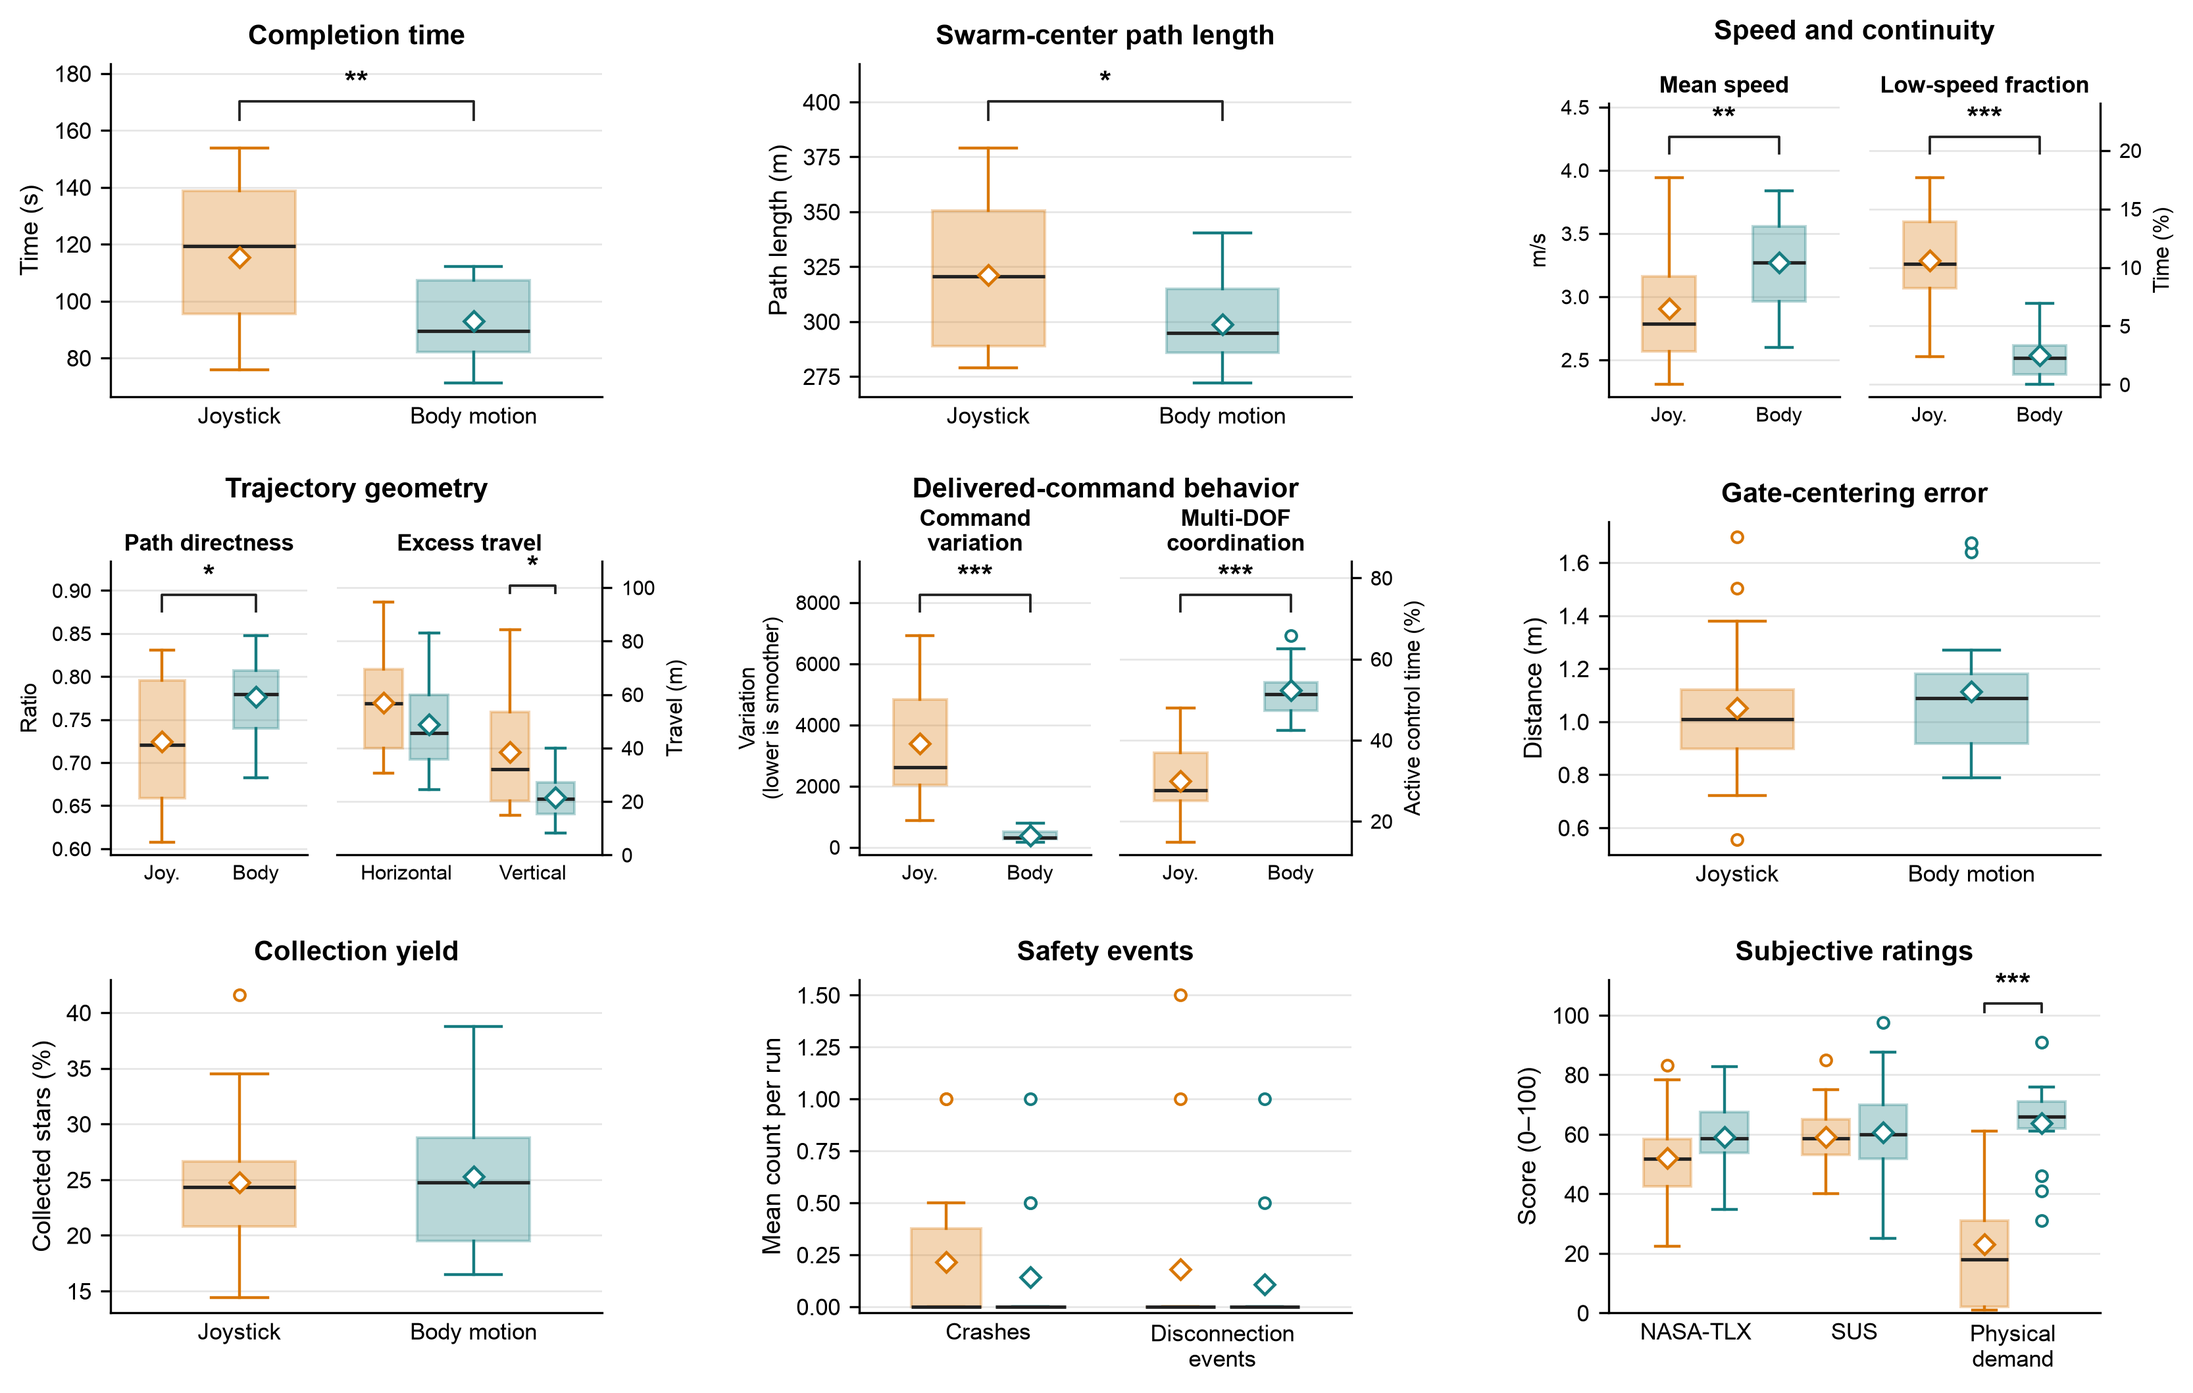
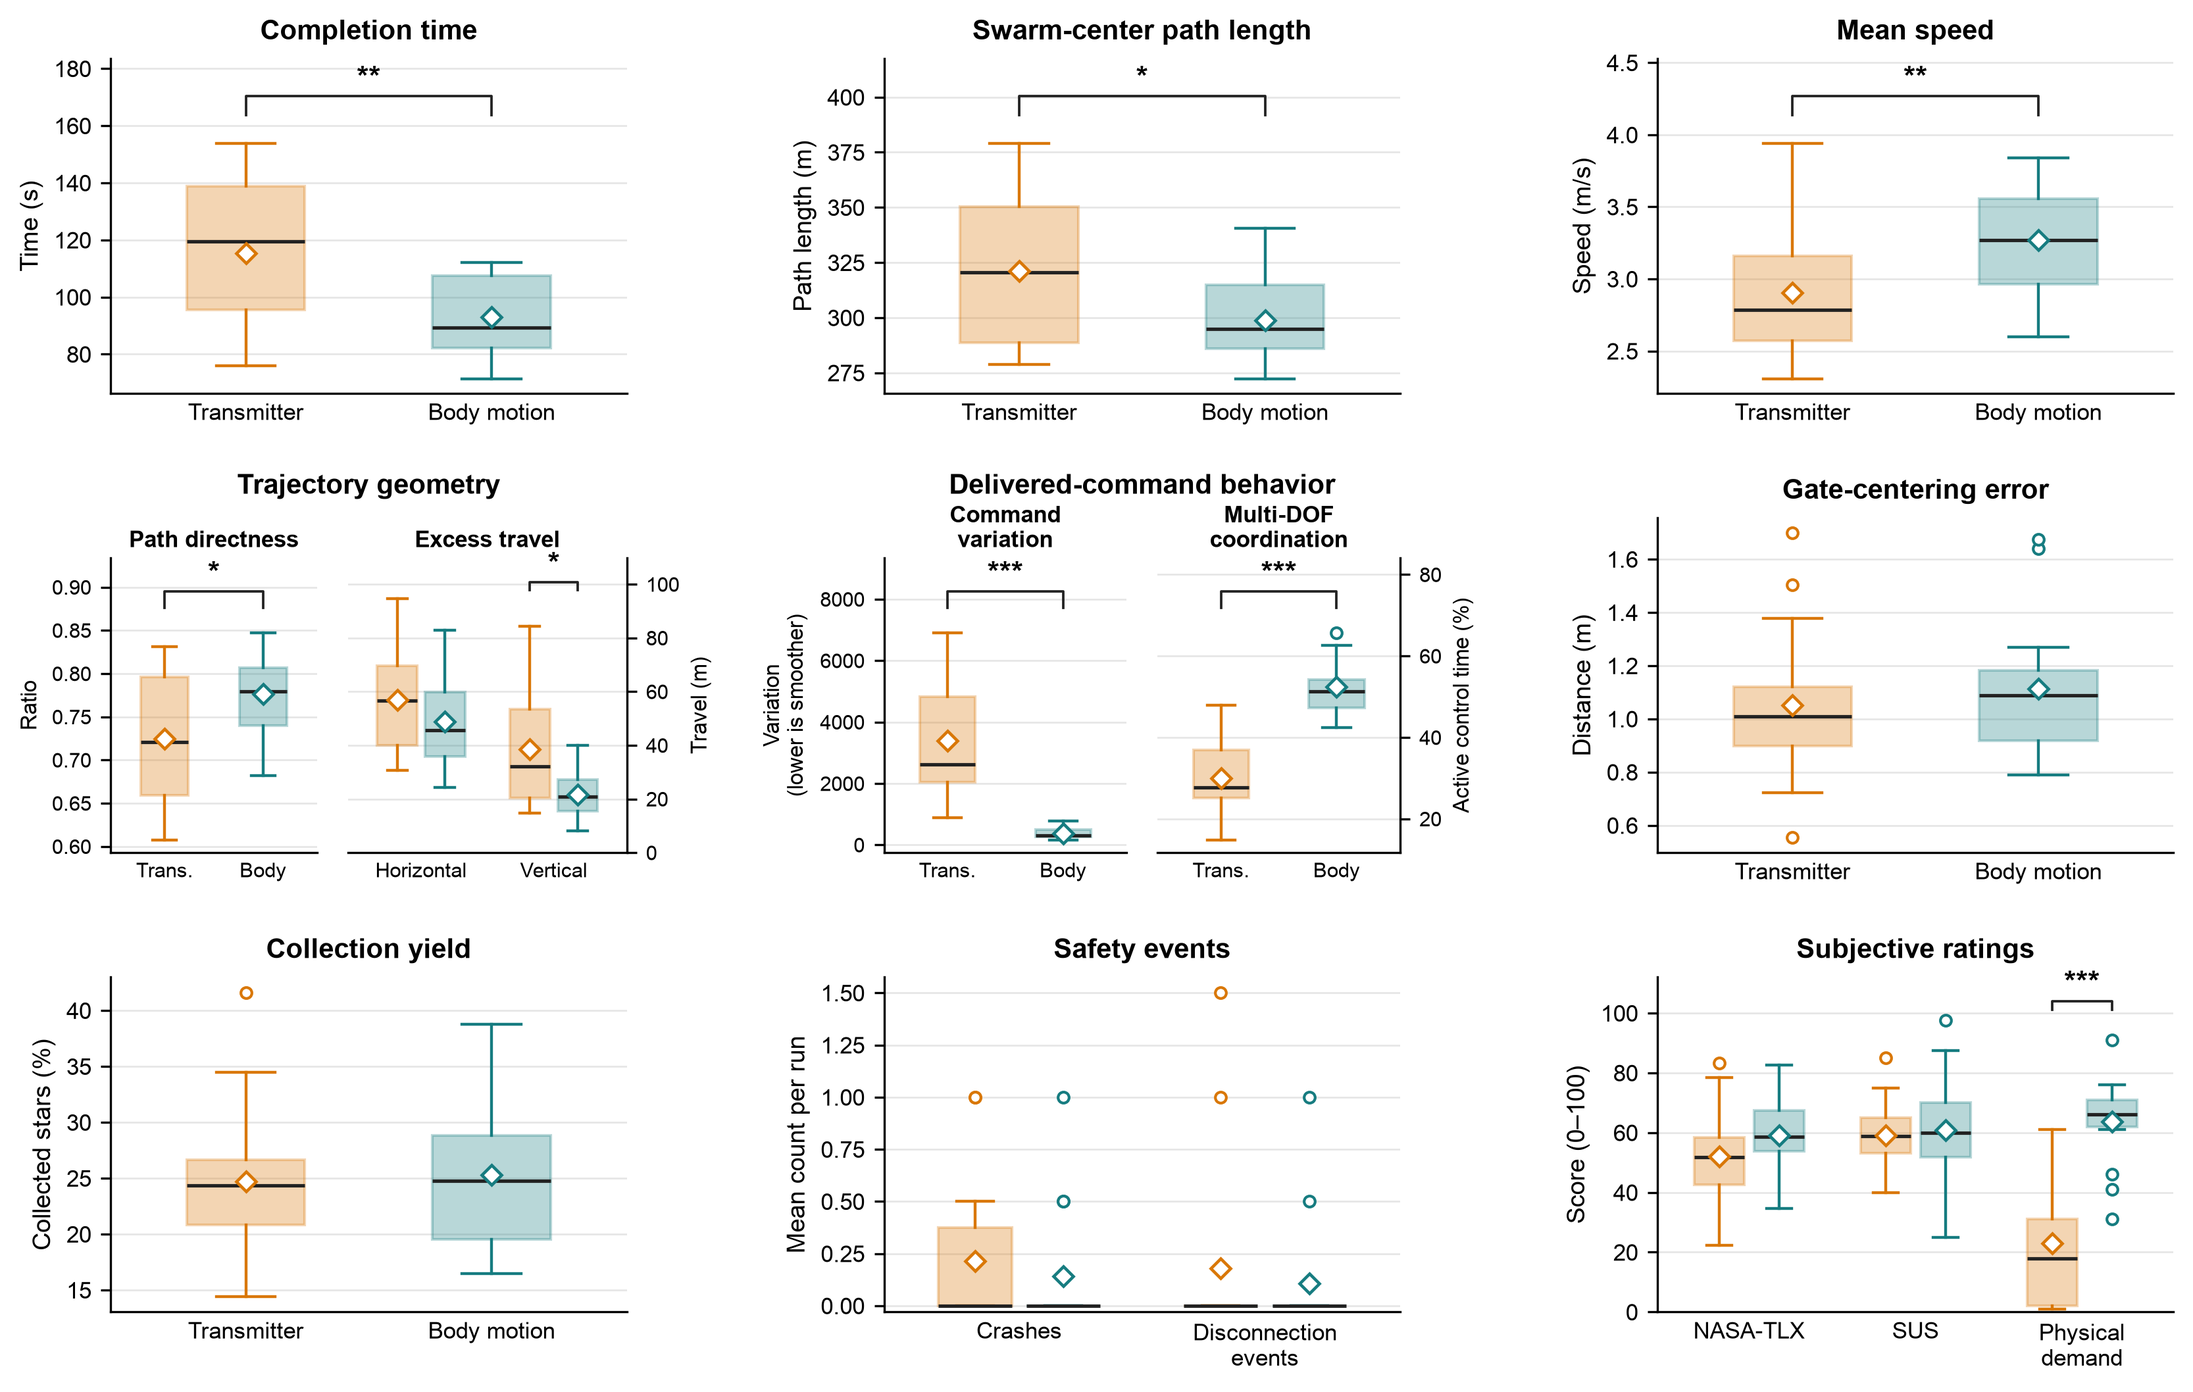
more

diff --git a/main.tex b/main.tex
@@ -48,25 +48,16 @@ Human Research Ethics Committee under Application No.\ HREC 092-2023.}%
 \pagestyle{empty}
 
 
-
 \begin{abstract}
-
 Immersive first-person-view teleoperation of aerial swarms requires concurrent
 control of collective motion, view direction, and formation size. We developed
 a participant-calibrated upper-body interface providing five-DOF control
 through torso, controller, and head motion. In a within-subject study, 14
 participants navigated a simulated 15-agent swarm through three-dimensional
-obstacle courses using the implemented body-motion interface and a conventional transmitter. the implemented body-motion interface
-reduced completion time by 19.4\% and centroid path length by 7.0\%, produced
+obstacle courses using body-motion and a conventional transmitter. The implemented body-motion interface reduced completion time by 19.4\% and centroid path length by 7.0\%, produced
 more direct trajectories, yielded 88.8\% lower delivered-command variation, and
-showed higher multi-DOF coordination. No clear
-differences were detected in gate-centering error, collection yield, crash and
-disconnection counts, overall workload, or usability, while physical demand was
-higher with the implemented body-motion interface for all participants. These results indicate an
-efficiency advantage for an upper-body interface that distributes concurrently
-varying command dimensions across separate body segments.
+showed higher multi-DOF coordination. No clear differences were detected in gate-centering error, collection yield, crash and disconnection counts, overall workload, or usability, while physical demand was higher with the implemented body-motion interface for all participants. These results indicate an efficiency advantage for an upper-body interface that distributes concurrently varying command dimensions across separate body segments.
 \end{abstract}
-
 
 % =====================================================================
 
@@ -75,10 +66,10 @@ varying command dimensions across separate body segments.
 Aerial swarms can extend sensing and coverage by coordinating many robots, but
 missions that depend on human judgment still require an effective interface
 between one operator and the collective
-\cite{kolling2016survey,hocraffer2017meta}. Rather than command individual
-agents, the operator can steer the swarm through a smaller set of collective
-commands. In three-dimensional environments, however, several commands may
-need to change concurrently. Passing through an opening can require simultaneous
+\cite{kolling2016survey,hocraffer2017meta}. Rather than commanding individual
+agents, the operator can steer the entire swarm through a smaller set of collective
+commands. In three-dimensional environments, several commands may
+need to change concurrently. For example, passing through an opening can require simultaneous
 adjustment of planar translation, altitude, formation spacing, and view
 direction. The interface must therefore support coordinated control of multiple
 continuous degrees of freedom (DOF), rather than forcing the operator to make
@@ -87,11 +78,9 @@ these adjustments sequentially.
 This control problem is affected by how the swarm is viewed. A top-down view
 (TDV) provides an external overview that makes the swarm's global state,
 including its spatial extent, connectivity, and relationship to surrounding
-obstacles, directly visible. Producing this view in an uninstrumented
-environment may nevertheless require external infrastructure, a dedicated
-viewing platform, or real-time scene reconstruction. A dedicated viewing agent
-can also introduce a single point of failure into an otherwise distributed
-system. A first-person view (FPV) can instead be streamed from a \emph{focal
+obstacles, directly visible. Producing this view requires a dedicated
+viewing platform, or real-time scene reconstruction. A dedicated viewing agent introduces a single point of failure into an otherwise distributed
+system while scene reconstruction is computationally expensive and requires many additional expensive sensors such as Lidars. A first-person view (FPV) can instead be streamed from a \emph{focal
 agent}, defined here as the swarm member whose onboard camera currently supplies
 the operator's view. The camera source can be transferred if that agent becomes
 unavailable, preserving the distributed character of the swarm
@@ -116,7 +105,7 @@ Jarvis et al.\ demonstrated that a rear-focal FPV can support one-to-many swarm
 teleoperation and compared different placements and combinations of onboard
 views \cite{ben_focaldrone}. Their interface assigned planar translation,
 vertical motion, view yaw, and formation spacing to two transmitter sticks and
-a rotary control. This established the feasibility of focal-agent FPV, but left
+a rotary control knob. This established the feasibility of focal-agent FPV, but left
 an interaction problem unresolved: whether a conventional handheld transmitter
 is well matched to a task requiring concurrent adjustment of five continuous
 DOF. Multidimensional-input research distinguishes separable control, in which
@@ -127,10 +116,7 @@ of several commands across thumbsticks and a separate rotary control may become
 a bottleneck during maneuvers that require simultaneous translation, altitude,
 spacing, and viewpoint changes.
 
-Upper-body motion offers a different allocation of these commands. Head, torso,
-and hand movements provide several continuous input dimensions that can be
-assigned to distinct swarm DOF while retaining spatial correspondence between
-body motion and commanded motion. Body--machine interfaces have already enabled
+An upper-body motion interface offers a different allocation of these commands.  Head, torso, and hand movements can provide several continuous input dimensions that can be assigned to distinct swarm DOF while retaining spatial correspondence between body motion and commanded motion. Body--machine interfaces have already enabled
 immersive and personalized control of individual drones
 \cite{rognon2018flyjacket,miehlbradt2018datadriven,
 macchini2024datadriven}. Importantly, Macchini et al.\ found that robots with
@@ -142,17 +128,11 @@ motion has supported four-dimensional control from an external viewpoint
 \cite{macchini2021personalized}, while tactile and gesture-based systems have
 supported other forms of swarm and formation control
 \cite{tsykunov2019swarmtouch,kratky2025gesture}. Together, these studies suggest
-that body motion can support multidimensional control, but do not establish
-whether it remains effective when the operator acts through a moving
-focal-agent FPV.
+that body motion can support multidimensional control for a single agent, but do not establish whether it remains effective when the operator controls a swarm of agents. 
 
 We therefore investigate whether distributing five continuous swarm commands
 across the head, torso, and hands can address the input bottleneck of
-focal-agent FPV teleoperation. We implement a participant-calibrated interface
-in which torso inclination commands planar velocity, mean hand height commands
-vertical velocity, hand separation commands formation spacing, and head yaw
-commands FPV yaw rate. We compare the complete interface with a conventional
-drone transmitter in a within-subject study of 14 participants
+focal-agent FPV swarm teleoperation. We implement a participant-calibrated interface in which torso inclination commands planar velocity, mean hand height commands vertical velocity, hand separation commands formation spacing, and head yaw commands FPV yaw rate. We compare the complete interface with a conventional drone transmitter in a within-subject study of 14 participants
 navigating a simulated swarm through three-dimensional obstacle courses. The
 contributions are (i) a five-DOF upper-body mapping that remains aligned with
 the focal agent's reference frame during view rotation and transfer, and
@@ -160,19 +140,13 @@ the focal agent's reference frame during view rotation and transfer, and
 trajectory geometry, control behavior, task accuracy, swarm integrity,
 workload, usability, and preference.
 
-
-
-
-
-
 \section{Swarm Control System and Input Interfaces}
 % --- 2a. Methodology: the interface and the body-to-swarm mapping ---
 
 \subsection{Shared Swarm and FPV System}
 \label{sec:system}
 
-Both input conditions generated a common five-dimensional command vector for
-the simulated 15-agent swarm:
+Both input conditions generated a common five-dimensional command vector for the simulated 15-agent swarm:
 \begin{equation}
 \mathbf{u}_t =
 \left[
@@ -184,35 +158,29 @@ v_{\mathrm{vert},t}^{\mathrm{ref}},
 \right]^{\mathsf T}.
 \label{eq:swarm_command}
 \end{equation}
-The first three components specify focal-frame horizontal and world-vertical
-reference velocities, $\dot{\psi}_{t}^{\mathrm{cmd}}$ specifies FPV yaw rate,
+The first three components specify focal-frame horizontal and world-vertical reference velocities, $\dot{\psi}_{t}^{\mathrm{cmd}}$ specifies FPV yaw rate,
 and $\rho_t^{*}$ specifies target agent spacing.
-
 
 A decentralized Olfati--Saber controller~\cite{olfatisaber2006flocking}
 combined clearance regulation, velocity alignment, reference-velocity
-tracking, and obstacle repulsion. At 50 Hz, surviving agents were represented as vertices of an undirected interaction graph. An edge connected agents \(i\) and \(j\) when their Euclidean separation was less than \(R_t=\max(2\rho_t^{*},\,\rho_t^{*}+2~\mathrm{m})\), where \(\rho_t^{*}\) was the commanded surface-to-surface clearance. Connected components were computed from this graph, and surviving agents outside the largest connected component were classified as disconnected.
+tracking, and obstacle repulsion. The surviving agents formed an undirected interaction graph. Two agents were connected if the distance between them was less than \(R_t=\max(2\rho_t^{*},\,\rho_t^{*}+2~\mathrm{m}),\). The largest connected component was considered the connected swarm, and all surviving agents outside it were classified as disconnected.
 
-We fixed the visual interface to a rear-focal FPV rather than treating
-viewpoint as an additional experimental factor. A camera on the rearmost agent
-places most of the controlled swarm ahead of the camera and therefore within
-its forward field of view. Moreover, Jarvis et al.\ found that rear-of-swarm
-views were preferred and supported more precise flight, fewer crashes, and
-lower workload than front-of-swarm views, whereas presenting multiple views
-simultaneously increased completion time \cite{ben_focaldrone}. Because the
-present study investigates the input interface rather than viewpoint
-selection, we adopted this evidence-supported single-view configuration and
-held it constant across both conditions.
-
-Following the focal-agent selection method of Jarvis et
-al.~\cite{ben_focaldrone}, the agent furthest back in the horizontal viewing
-direction provided the stereoscopic FPV. The system switched to a new agent
-only if it remained at least 0.5~m further back for 0.5~s.
+To isolate input-interface effects, both conditions used the rear-focal
+stereoscopic FPV of Jarvis et al., which keeps most agents ahead of the camera
+and outperformed front and multiple-view configurations~\cite{ben_focaldrone}.
+The agent furthest back along the horizontal viewing direction provided the
+feed; handoff occurred only when another agent remained at least 0.5~m further
+back for 0.5~s.
 
 In both conditions, participants used a virtual reality (VR) headset (Meta Quest 3S, Meta, USA) to view the FPV. Three devices measured the implemented body-motion interface. The headset measured head yaw. Two handheld controllers measured 3D hand positions. A chest-mounted inertial measurement unit (LPMS-B2, LP-Research, Japan) measured torso inclination. The swarm controller, command limits, focal-agent logic, and simulation were the same for both conditions. Only the input hardware and filtering differed.
 
 \subsection{Body-to-Swarm Mapping}
-\label{sec:mapping}
+\label{sec:mapping} 
+The body-to-swarm mapping followed four design principles: (i) spatial
+correspondence between body and swarm motion, (ii) distribution of the five
+command dimensions across body segments to reduce input competition and enable
+concurrent control, (iii) control semantics matched to each commanded quantity,
+and (iv) participant-specific calibration.
 
 At time $t$, the interface measured sagittal and lateral torso inclination
 $(\theta_t,\phi_t)$, headset yaw $\psi_t$, mean controller height
@@ -223,6 +191,7 @@ and controller separation
 \[
 s_t=\left\lVert\mathbf{p}^W_{R,t}-\mathbf{p}^W_{L,t}\right\rVert .
 \]
+
 Translation and yaw used rate control, meaning a sustained posture produced continuous motion. In contrast, controller separation mapped directly to the desired formation clearance.
 
 \emph{Participant-specific normalization:}
@@ -298,9 +267,14 @@ command was
 \end{equation}
 Returning the head to neutral stopped FPV rotation without restoring the
 previous viewing direction.
-All parameters were selected through pilot and informal testing.
-
-
+The selection of body-to-swarm couplings was not based on an empirical
+comparison of alternative mappings. Pilot and informal testing were used only
+to tune numerical parameters, including gains, deadzones, maximum command
+speeds, and the formation-clearance range.
+The selection of body-to-swarm couplings was not based on an empirical
+comparison of alternative mappings. Pilot and informal testing were used only
+to tune numerical parameters, including gains, deadzones, maximum command
+speeds, and the formation-clearance range.
 \begin{figure*}[!t]
 \centering
 \includegraphics[width=\textwidth]{Figures/l.png}
@@ -365,7 +339,6 @@ calibration or additional temporal filtering.
 \section{Experimental Evaluation}
 \label{sec:experiment}
 
-
 \subsection{Participants and Study Design}
 \label{sec:participants_design}
 
@@ -383,9 +356,6 @@ completed while seated during a single session lasting approximately 1~h.
 
 \subsection{Task and Procedure}
 \label{sec:task}
-
-
-
 All participants received identical prerecorded instructions and
 demonstrations. They were asked to complete each course as quickly as possible while passing near the opening centers, collecting stars, and minimizing crashes and disconnections. Participants viewed only stereoscopic FPV, with no timer, score, or task-status display.
 
@@ -401,17 +371,11 @@ task performance.
 
 A star was collected when any agent entered its trigger; wall or inter-agent collisions removed the affected agent, and survivors outside the largest connected component were classified as disconnected at each sample.
 
-
-The courses were designed to compare the two interfaces under identical, repeatable conditions rather than to evaluate directional symmetry. Consequently, only one direction of 90° turning was represented. Although both interfaces were evaluated on the same courses, the results do not establish that performance would be unchanged for opposite-direction or repeated turns. Future studies should use mirrored or direction-counterbalanced courses.
-
-
 Before the body-motion block, participants completed the calibration described
 in Section~\ref{sec:calibration}. Each interface block began with familiarization
 on the practice course: participants first maneuvered freely with standardized
 experimenter guidance and then completed one unrecorded full-course traversal.
 Two recorded runs followed in fixed order.
-
-
 
 After each interface block, participants completed the weighted NASA Task Load
 Index (NASA-TLX)~\cite{hart1988nasatlx} and the System Usability Scale
@@ -429,7 +393,6 @@ Labels G1--G7 mark the gate sequence; dashed arrows show traversal direction.}
 
 
 \subsection{Evaluation Metrics}
-
 Completion time was the primary outcome, consistent with task-oriented HRI
 evaluation~\cite{steinfeld2006metrics}. Other measures described trajectory
 characteristics, task performance, swarm integrity, delivered commands, and

diff --git a/save.tex b/save.tex
@@ -1,5 +1,3 @@
- \documentclass[a4paper,10pt,conference]{ieeeconf}
-
 \IEEEoverridecommandlockouts
 \overrideIEEEmargins
 
